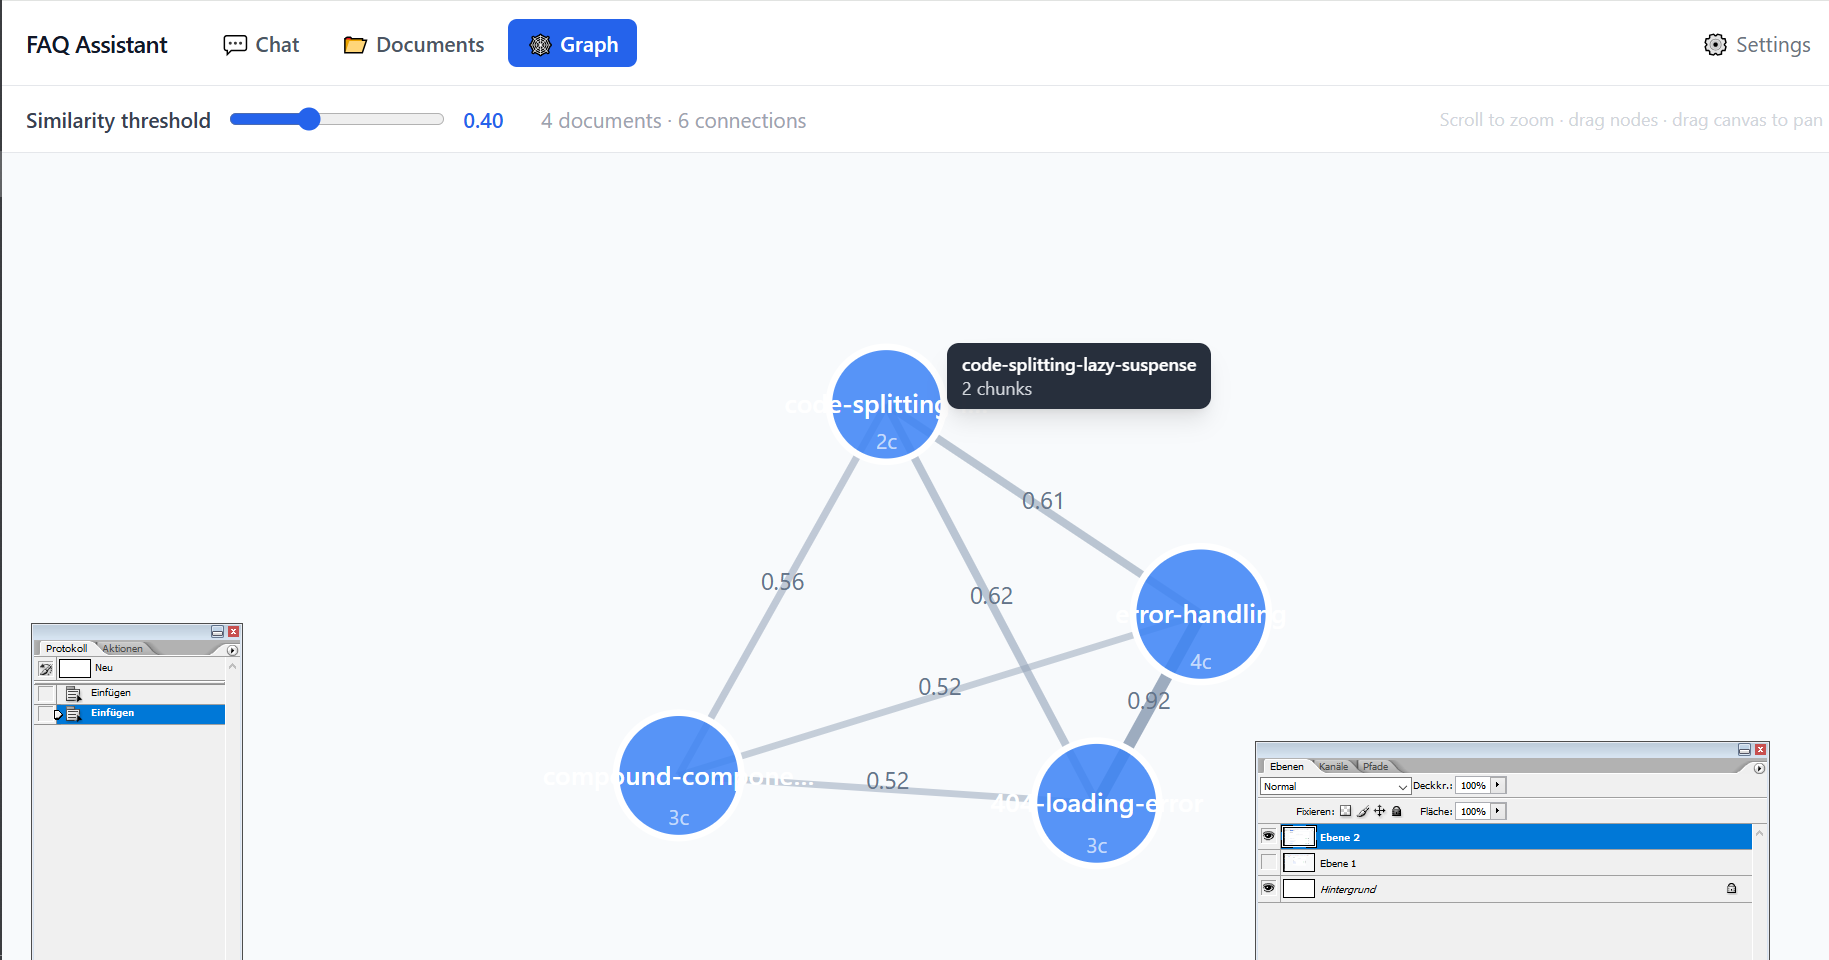
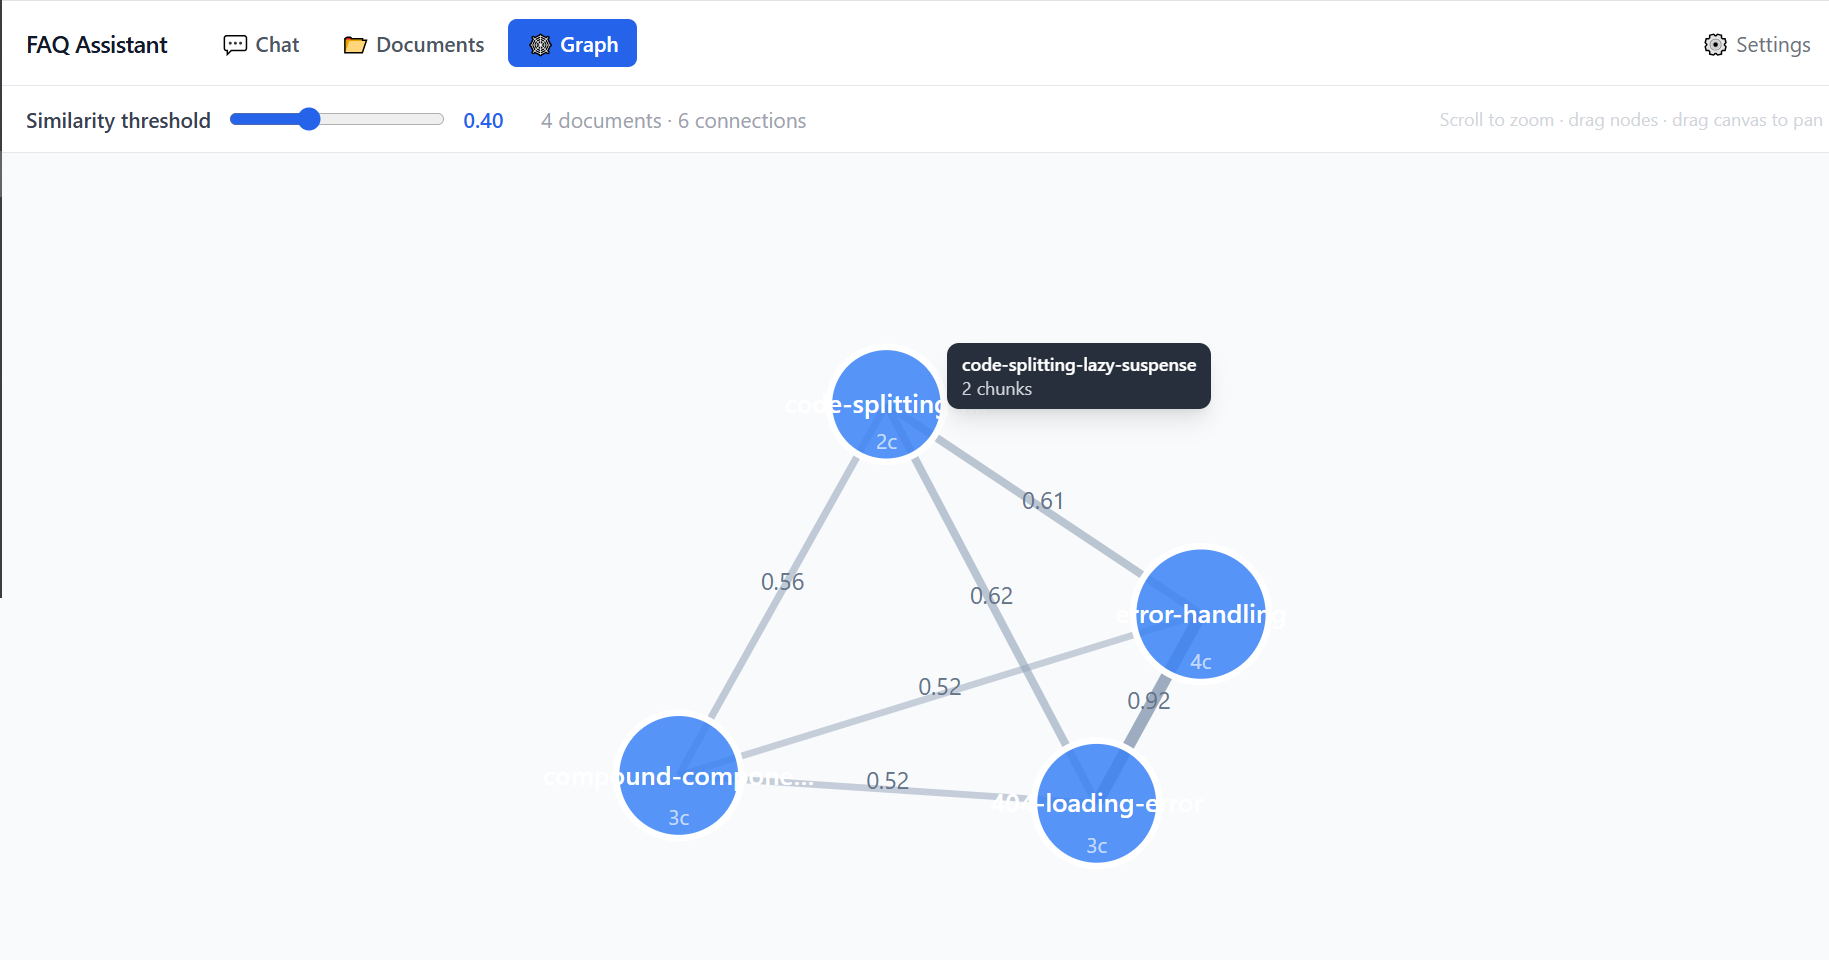
landing page text

Changed region(s): [[0.6856, 0.75, 0.9661, 0.9375], [0.0, 0.625, 0.1558, 0.7812]]

diff --git a/src/components/CTASection.jsx b/src/components/CTASection.jsx
@@ -20,6 +20,16 @@ const CTASection = ({ data }) => {
                 <div className="pricing-price">{item.price}</div>
                 <div className="pricing-price-info">{item.priceInformation}</div>
                 <a href={item.buttonLink} className="cta-button pricing-button">{item.buttonText}</a>
+                {item.secondaryButtonText && (
+                  <a
+                    href={item.secondaryButtonLink}
+                    className="pricing-secondary-link"
+                    target="_blank"
+                    rel="noopener noreferrer"
+                  >
+                    {item.secondaryButtonText}
+                  </a>
+                )}
               </div>
             ))}
           </div>

diff --git a/src/App.css b/src/App.css
@@ -383,6 +383,28 @@ li {
   padding: 30px;
   text-align: left;
   box-shadow: 0 16px 30px rgba(15, 23, 42, 0.15);
+  border: 2px solid transparent;
+}
+
+/* Second tier gets a visible outline to set it apart */
+.pricing-card:nth-child(2) {
+  border-color: #9ca3af;
+}
+
+/* Secondary "buy directly" link under the primary CTA */
+.pricing-secondary-link {
+  display: block;
+  margin-top: 12px;
+  text-align: center;
+  font-size: 0.875rem;
+  color: var(--muted-color);
+  text-decoration: none;
+  transition: color 0.15s ease;
+}
+
+.pricing-secondary-link:hover {
+  color: var(--dark-color);
+  text-decoration: underline;
 }
 
 .pricing-title {

diff --git a/src/components/FAQ.jsx b/src/components/FAQ.jsx
@@ -9,7 +9,10 @@ const FAQ = ({ data }) => {
           {data.items.map((item, index) => (
             <div key={index} className="faq-item">
               <h4>{item.question}</h4>
-              <p>{item.answer}</p>
+              {/* A newline in the JSON becomes a new paragraph */}
+              {item.answer.split('\n').filter(Boolean).map((para, i) => (
+                <p key={i}>{para}</p>
+              ))}
               {item.imageUrl && <img src={item.imageUrl} alt="Info-Graphic" width="100%" height="auto" />}
             </div>
           ))}
